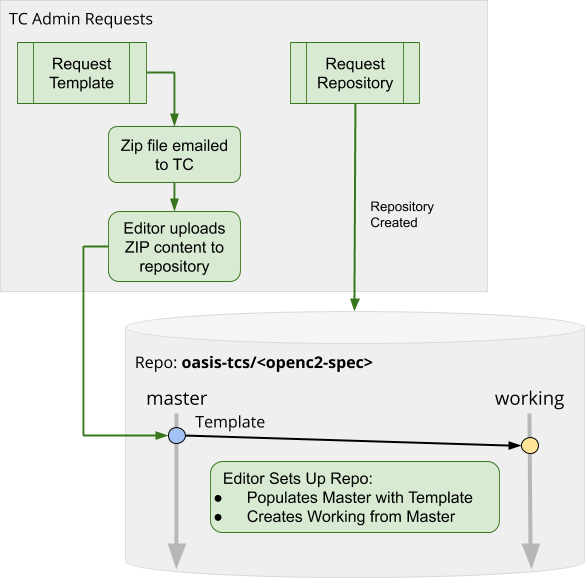
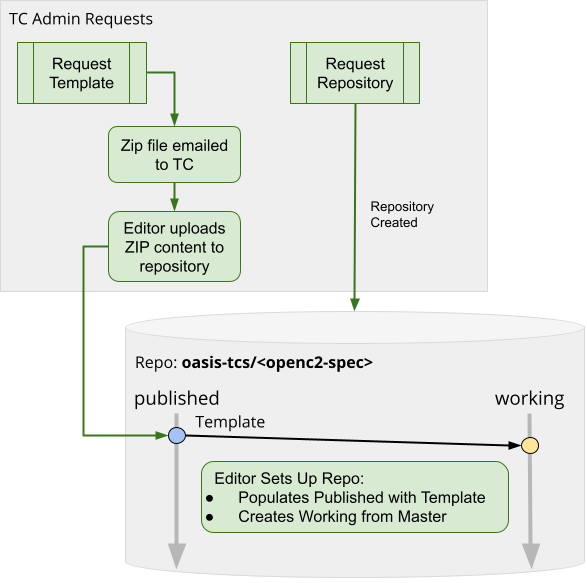
Update fig1 and source link

Changed region(s): [[0.3373, 0.7719, 0.8893, 0.9262], [0.2147, 0.6484, 0.368, 0.7101]]

diff --git a/Documentation-Norms.md b/Documentation-Norms.md
@@ -350,7 +350,7 @@ repository branching concept further described in [section
 
 ![Work Product Launch](images/work-product-launch.png)
 
-> [Figure 1 Source (Google Draw File)](https://docs.google.com/drawings/d/18EszEURok-tgb9RaqxAPp-duivpc9waHnK27Fd0J-4s/edit)
+> [Figure 1 Source (Google Draw File)](https://docs.google.com/drawings/d/1x_KHAzdUPmzdNpz00zOxjnwLN5dLIFPpIBNbp9oltxg/edit)
 
 
 ### 4.3.1 Request Template
